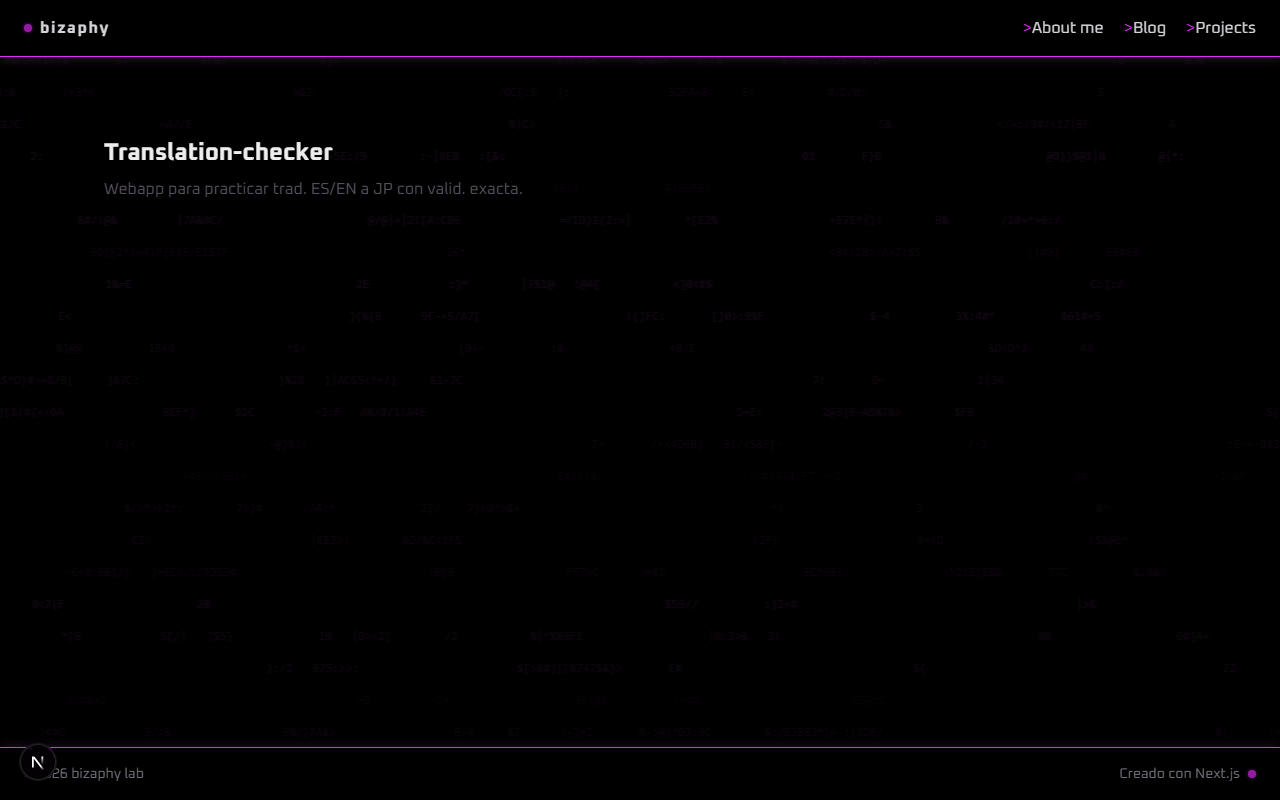
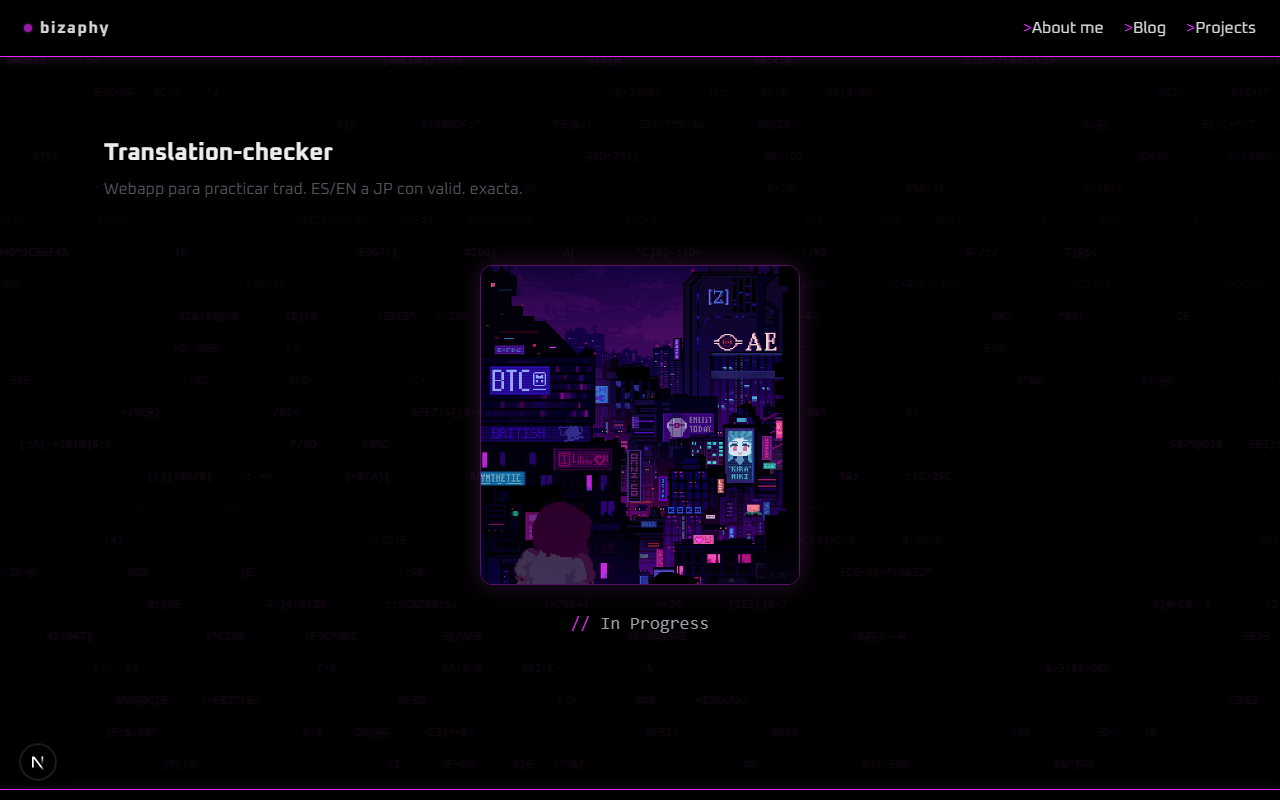
actualizacion de screenshots y cambios en mensaje del componente inprogress

diff --git a/src/components/ui/InProgress.tsx b/src/components/ui/InProgress.tsx
@@ -1,0 +1,37 @@
+import Image from "next/image";
+
+interface InProgressProps {
+  message?: string;
+}
+
+export default function InProgress({
+  message = "In Progress",
+}: InProgressProps) {
+  return (
+    <div className="flex flex-col items-center justify-center gap-6 py-10">
+      <div
+        className="
+          relative overflow-hidden rounded-xl
+          w-36 h-36
+          sm:w-56 sm:h-56
+          lg:w-80 lg:h-80
+          border border-fuchsia-500/40
+          shadow-[0_0_24px_rgba(217,70,239,0.2)]
+        "
+      >
+        <Image
+          src="/images/misc/pixel-dorothy.gif"
+          alt="Proyecto en progreso"
+          fill
+          className="object-cover"
+          unoptimized
+        />
+      </div>
+
+      <p className="font-mono text-center px-4 max-w-sm text-sm sm:text-base lg:text-lg text-zinc-400">
+        <span className="text-fuchsia-500">// </span>
+        {message}
+      </p>
+    </div>
+  );
+}

diff --git a/src/content/projects/translation-checker/TranslationChecker.tsx b/src/content/projects/translation-checker/TranslationChecker.tsx
@@ -1,3 +1,5 @@
+import InProgress from "@/components/ui/InProgress";
+
 export default function TranslationChecker() {
-  return null;
+  return <InProgress />;
 }

diff --git a/src/content/projects/global-time-report/GlobalTimeReport.tsx b/src/content/projects/global-time-report/GlobalTimeReport.tsx
@@ -1,3 +1,5 @@
+import InProgress from "@/components/ui/InProgress";
+
 export default function GlobalTimeReport() {
-  return null;
+  return <InProgress />;
 }

diff --git a/src/content/projects/market-dashboard/MarketDashboard.tsx b/src/content/projects/market-dashboard/MarketDashboard.tsx
@@ -1,3 +1,5 @@
+import InProgress from "@/components/ui/InProgress";
+
 export default function MarketDashboard() {
-  return null;
+  return <InProgress />;
 }
